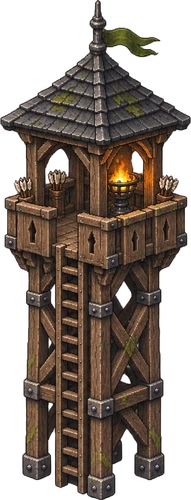
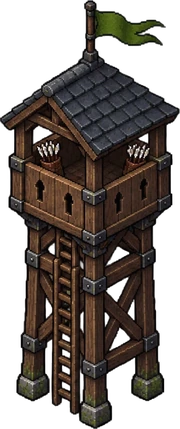
v0.9.3 : ordres prioritaires en combat, timing des boss, mur de pierre, donjon niv. 2, tours redessinées, nouveaux effets
Claude-Session: https://claude.ai/code/session_01Qu7CnrjJEbnLbDp6zknZA7

diff --git a/index.html b/index.html
@@ -315,7 +315,7 @@ const cv=$('cv'),ctx=cv.getContext('2d');
 const MK=1,WW=1672*MK,WH=941*MK,TW=64,TH=32,OX=905*MK,OY=482*MK;
 const DAY=120,DUSK=12,NIGHT=110,TIME=2; // TIME: game seconds per real second at ×1
 const IMG={};
-['bg','keep','farm','wallA','wallB','wallAd','wallBd','wallA2','wallB2','wallA2d','wallB2d','wallA3','wallB3','wallA3d','wallB3d','post','rubble','gate','gate2','gateD','gateX','totem','totemOn','ebouA','ebouB'].forEach(n=>{const i=new Image();i.src='img/'+n+'.webp';IMG[n]=i});
+['bg','keep','farm','wallA','wallB','wallAd','wallBd','wallA2','wallB2','wallA2d','wallB2d','wallA3','wallB3','wallA3d','wallB3d','post','rubble','gate','gate2','gateD','gateX','totem','totemOn','stoneA','stoneB','stoneP','stoneAd','stoneBd','stoneAx','stoneBx','keep1','keep2','ebouA','ebouB'].forEach(n=>{const i=new Image();i.src='img/'+n+'.webp';IMG[n]=i});
 const MP=['w1','w2','atk','dead'],MS={rodeur:{w1:[28.5,17]},charo:{w1:[19.5,27]},brute:{w1:[46.5,48]},colosse:{w1:[93,88]},cracheur:{w1:[28.0,27.0]},fouisseur:{w1:[29.0,19.5]},corbeaux:{w1:[27.5,24.0]},belier:{w1:[50.0,38.5]},necro:{w1:[28.0,27.5]},peste:{w1:[27.5,29.5]},ombre:{w1:[28.0,29.5]},matriarche:{w1:[90.0,78.5]},cuirasse:{w1:[37.0,39.0]}};
 for(const n in MS)for(const p of MP){const i=new Image();i.src='img/m/'+n+'_'+p+'.webp';IMG['m_'+n+'_'+p]=i;if(p!=='dead'){const r=new Image();r.src='img/m/'+n+'_'+p+'_rim.webp';IMG['m_'+n+'_'+p+'_r']=r}}
 const IMAP={slow:'slow'};const SZ={armory:150,stable:156,hall:132,keep:222,farm:168,mill:142,quarry:142,hospital:150,tower:46,brazier:26};
@@ -527,7 +527,7 @@ const tavernDisc=()=>{let v=0;for(const b of S.blds)if(b.t==='tavern'&&ready(b))
 function rcost(k){const c=ALLU[k].cost,f=1-tavernDisc(),o={};for(const r in c)o[r]=Math.round(c[r]*f);return o}
 const costOf=k=>B[k]?B[k].cost:rcost(k);
 function gain(r,a){S.res[r]+=a;return a}
-function levelCheck(){let ups=0;for(const u of S.units){if(u.worker)continue;while(u.lv<10&&u.xp>=xpNeed(u.lv)){u.lv++;ups++;S.st.maxLv=Math.max(S.st.maxLv,u.lv);if(!u.hidden){float(u.x,u.y-40,'Niveau '+u.lv,'#ffd27a',1,'lvlup');burst(u.x,u.y-14,'#ffd27a',10)}}}refreshMax();return ups}
+function levelCheck(){let ups=0;for(const u of S.units){if(u.worker)continue;while(u.lv<10&&u.xp>=xpNeed(u.lv)){u.lv++;ups++;S.st.maxLv=Math.max(S.st.maxLv,u.lv);if(!u.hidden){float(u.x,u.y-40,'Niveau '+u.lv,'#ffd27a',1,'lvlup');fxAdd('lvlup',u.x,u.y-18,{dur:.9,sz:56});burst(u.x,u.y-14,'#ffd27a',10)}}}refreshMax();return ups}
 // Hordes : tables de groupes aléatoires débloquées nuit après nuit. Chaque nuit dispose d'un budget de menace
 // qu'on remplit en tirant des tables ; les tables récentes sont plus probables, les anciennes s'effacent peu à peu.
 const MCOST={charo:1,rodeur:.7,corbeaux:.5,cracheur:1.4,fouisseur:1.5,peste:1.3,necro:1.8,ombre:2,cuirasse:3,brute:4,belier:5};
@@ -562,12 +562,14 @@ function genHorde(n,type){
   while(left>0&&groups.length<40){const T=groups.length?draw():pool.find(p=>p.T.t===1).T,mem=[];
     for(const [m,a,b] of T.g){const k=Math.max(1,Math.round(rnd(a,b)*grow));for(let x=0;x<k;x++)mem.push(m)}
     groups.push({n:T.n,mem});left-=mem.reduce((a,m)=>a+MCOST[m],0)}
-  const hpk=(1+.16*(n-1))*(dm>1?1.15:dm<1?.85:1),ents=openEntries(n),span=Math.min(75,34+n*3.5),q=[];
+  const hpk=(1+.16*(n-1))*(dm>1?1.15:dm<1?.85:1),ents=openEntries(n),span=Math.min(60,30+n*2.5),q=[];
+  // une créature doit arriver au donjon assez tôt pour être tuable avant l'aube (trajet ~650 px)
+  const lateAt=t=>Math.max(2,NIGHT-40-650/M[t].sp);
   groups.sort(()=>Math.random()-.5);
   groups.forEach((G,gi)=>{const e=ents[Math.floor(Math.random()*ents.length)],t0=gi*(span/groups.length)+Math.random()*2;
-    G.mem.forEach((t,k)=>q.push({t,ent:e,at:t0+k*.7+Math.random()*.4,hp:Math.round(M[t].hp*hpk),grp:G.n,elite:n>=3&&Math.random()<.12?Object.keys(ELITES)[Math.floor(Math.random()*3)]:null}))});
+    G.mem.forEach((t,k)=>q.push({t,ent:e,at:Math.min(lateAt(t),t0+k*.7+Math.random()*.4),hp:Math.round(M[t].hp*hpk),grp:G.n,elite:n>=3&&Math.random()<.12?Object.keys(ELITES)[Math.floor(Math.random()*3)]:null}))});
   const boss=n%8===0?'matriarche':(n%5===0||type==='calme')?'colosse':null;
-  if(boss)q.push({t:boss,ent:ents[Math.floor(Math.random()*ents.length)],at:span*.85,hp:Math.round(M[boss].hp*hpk),grp:M[boss].n,elite:null});
+  if(boss)q.push({t:boss,ent:ents[Math.floor(Math.random()*ents.length)],at:3,hp:Math.round(M[boss].hp*hpk),grp:M[boss].n,elite:null});
   q.groups=groups.map(G=>G.n);
   return q;
 }
@@ -724,7 +726,7 @@ function fxAdd(k,x,y,o){if(!okI(FXI[k]))return;o=o||{};S.vfx=S.vfx||[];S.vfx.pus
 function fxFrame(g,k,f,x,y,sz,rot,flip,add){const im=FXI[k];if(!okI(im))return false;g.save();if(add)g.globalCompositeOperation='lighter';g.translate(x,y);if(rot)g.rotate(rot);if(flip)g.scale(-1,1);g.drawImage(im,f*128,0,128,128,-sz/2,-sz/2,sz,sz);g.restore();return true}
 function spark(x,y,c,n){for(let k=0;k<n;k++){const a=Math.random()*6.28,s=60+Math.random()*90;S.fx.push({x,y,vx:Math.cos(a)*s,vy:Math.sin(a)*s*.6-20,c,t:0,life:.25+Math.random()*.2,sp:1})}}
 function float(x,y,s,c,big,icon){S.txt.push({x,y,s,c,t:0,big,icon})}
-const FXI={};for(const k of ['arrow','shot','fire','ice','holy','slash','death','flame','acid','bolt']){const im=new Image();im.src='img/fx/'+k+'.webp';FXI[k]=im}
+const FXI={};for(const k of ['arrow','shot','fire','ice','holy','slash','death','flame','acid','bolt','poison','rock','boom','heal','lvlup','douse']){const im=new Image();im.src='img/fx/'+k+'.webp';FXI[k]=im}
 const RIC={};for(const k of ['bois','pierre','vivres','fail','crit','crown','lvlup','loot','skull','horde']){const im=new Image();im.src='img/i/'+k+'.webp';RIC[k]=im}
 function applyGel(m,s){if(m.burn>0){m.burn=0;return}m.gel=Math.max(m.gel,s)}
 function applyBurn(m){if(m.gel>0){m.gel=0;return}m.burn=3}
@@ -810,6 +812,7 @@ function step(dt){
     S.spawnClock+=dt;
     while(S.spawnQ.length&&S.spawnQ[0].at<=S.spawnClock)spawn(S.spawnQ.shift());
     if(!S.spawnQ.length&&!S.mons.length)dawn();
+    else if(S.t>=NIGHT&&S.mons.some(m=>m.d.boss)&&S.t<NIGHT+40){if(!S.night.ext){S.night.ext=1;toast('La nuit s\'attarde tant que '+S.mons.find(m=>m.d.boss).d.n+' marche encore.')}}
     else if(S.t>=NIGHT){const n=S.mons.length+S.spawnQ.length;for(const m of S.mons){burst(m.x,m.y-m.h*.5,'#ffcf6a',12);burst(m.x,m.y-6,'#2a1a12',8)}S.mons=[];S.spawnQ=[];hoverEnt=null;dawn(n)}
   }else if(S.phase==='dawn'){if(S.t>3){S.phase='day';S.t=0;dayStart()}}
   for(let k=S.timers.length-1;k>=0;k--)if(S.clock>=S.timers[k].at){const f=S.timers[k].fn;S.timers.splice(k,1);f()}
@@ -871,12 +874,12 @@ function step(dt){
         else if(!day){tx=k.x;ty=k.y+52;u.hidden=Math.hypot(u.x-k.x,u.y-k.y-44)<10}
       }else if(d.douse){
         let best=null,bd=1e9;for(const b of S.blds)if(b.fire>0){const dd=Math.hypot(b.x-u.x,b.y-u.y);if(dd<bd){bd=dd;best=b}}
-        if(best){tx=best.x+(u.off||0);ty=best.y+best.d.s*TH/2+4;if(Math.hypot(tx-u.x,ty-u.y)<12){act=true;u.dT=(u.dT||0)+dt*wm;if(Math.random()<dt*3)fxAdd('ice',best.x,best.y-20,{f0:4,f1:5,dur:.4,sz:34});if(u.dT>=2.4){u.dT=0;best.fire=0;float(best.x,best.y-50,'Éteint','#9fd8ff');burst(best.x,best.y-20,'#9fd8ff',14)}}}
+        if(best){tx=best.x+(u.off||0);ty=best.y+best.d.s*TH/2+4;if(Math.hypot(tx-u.x,ty-u.y)<12){act=true;u.dT=(u.dT||0)+dt*wm;if(Math.random()<dt*1.5)fxAdd('douse',best.x+(Math.random()-.5)*20,best.y-24,{f0:0,f1:3,dur:.5,sz:40});if(u.dT>=2.4){u.dT=0;best.fire=0;fxAdd('douse',best.x,best.y-30,{f0:2,f1:5,dur:.6,sz:64});float(best.x,best.y-50,'Éteint','#9fd8ff');burst(best.x,best.y-20,'#9fd8ff',14)}}}
         else{u.dT=0;const w=S.blds.find(b=>b.t==='well'&&ready(b));if(!day){tx=k.x;ty=k.y+52;u.hidden=Math.hypot(u.x-k.x,u.y-k.y-52)<10&&!S.blds.some(b=>b.fire>0)}else if(w){tx=w.x+14;ty=w.y+10}}
         for(const o of S.units)if(o!==u&&o.burn>0&&Math.hypot(o.x-u.x,o.y-u.y)<40)o.burn=0;
       }else if(d.medic){
         const pt=nearest(S.units.filter(o=>o!==u&&!o.hidden&&o.hp<o.max),u.x,u.y,600);
-        if(pt){const dd2=Math.hypot(pt.x-u.x,pt.y-u.y);if(dd2>18){tx=pt.x;ty=pt.y}else{tx=u.x;ty=u.y;act=true;{const h0=pt.hp;pt.hp=Math.min(pt.max,pt.hp+d.medic*wm*medMul()*dt);S.st.heals+=(pt.hp-h0)/TIME}if(Math.random()<dt*1.2)float(pt.x,pt.y-30,'+'+d.medic*TIME,'#9fe08a')}}
+        if(pt){const dd2=Math.hypot(pt.x-u.x,pt.y-u.y);if(dd2>18){tx=pt.x;ty=pt.y}else{tx=u.x;ty=u.y;act=true;{const h0=pt.hp;pt.hp=Math.min(pt.max,pt.hp+d.medic*wm*medMul()*dt);S.st.heals+=(pt.hp-h0)/TIME}if(Math.random()<dt*1.2){float(pt.x,pt.y-30,'+'+d.medic*TIME,'#9fe08a');fxAdd('heal',pt.x,pt.y-18,{dur:.7,sz:40})}}}
         else if(!day){tx=k.x;ty=k.y+52;u.hidden=Math.hypot(u.x-k.x,u.y-k.y-44)<10}
       }else if(d.heal){
         let best=null,bd=1e9;for(const b of S.blds)if((b.hp<b.max||b.fire>0)&&!b.d.trap&&!b.build){const dd=Math.hypot(b.x-u.x,b.y-u.y)-(b.fire>0?500:0)+(Math.hypot(b.x-k.x,b.y-k.y)>460?9999:0);if(dd<bd){bd=dd;best=b}}
@@ -888,7 +891,7 @@ function step(dt){
       if(u.guardB&&!S.blds.includes(u.guardB))u.guardB=null;
       if(u.patrol){const P=u.patrol;u.patT=(u.patT||0)-dt;if(!u.patP||u.patT<=0){u.patT=8+Math.random()*10;for(let g2=0;g2<8;g2++){const q={x:P.x0+Math.random()*(P.x1-P.x0),y:P.y0+Math.random()*(P.y1-P.y0)},c=cellOf(q.x,q.y);if(!blkA(c.i,c.j)){u.patP=q;break}}if(!u.patP)u.patP={x:(P.x0+P.x1)/2,y:(P.y0+P.y1)/2}}}
       const anc=u.guardB?{x:u.guardB.x,y:u.guardB.y+u.guardB.d.s*TH/2+10}:u.patrol?u.patP:u.post;if(u.guardB){tx=anc.x+(u.goff||0);ty=anc.y}else if(u.patrol){tx=anc.x;ty=anc.y}
-      if(u.d.healAura){for(const o of S.units)if(o!==u&&!o.hidden&&o.hp<o.max&&Math.hypot(o.x-u.x,o.y-u.y)<110){const h0=o.hp;o.hp=Math.min(o.max,o.hp+u.d.healAura*medMul()*dt);S.st.heals+=(o.hp-h0)/TIME;act=true}}
+      if(u.d.healAura){for(const o of S.units)if(o!==u&&!o.hidden&&o.hp<o.max&&Math.hypot(o.x-u.x,o.y-u.y)<110){if(Math.random()<dt*.5)fxAdd('heal',o.x,o.y-18,{dur:.7,sz:36});const h0=o.hp;o.hp=Math.min(o.max,o.hp+u.d.healAura*medMul()*dt);S.st.heals+=(o.hp-h0)/TIME;act=true}}
       if(u.d.priest)for(const m of S.mons)if(Math.hypot(m.x-u.x,m.y-u.y)<120){m.hp-=1*dt;m.ls=u;m.last=u}
       if(u.d.sapper&&!day){u.sapT=(u.sapT===undefined?4:u.sapT)-dt;const mine=S.blds.filter(b=>b.t==='mine'&&b.by===u).length;
         if(u.sapT<=0&&mine<3){u.sapT=18;const tg=nearest(S.mons,u.post.x,u.post.y,1e9);const dx=tg?tg.x-u.post.x:0,dy=tg?tg.y-u.post.y:0,dd=Math.hypot(dx,dy)||1,px=u.post.x+dx/dd*70,py=u.post.y+dy/dd*70;
@@ -896,11 +899,13 @@ function step(dt){
       // morale & flee
       const allies=S.units.some(o=>o!==u&&!o.worker&&!o.hidden&&Math.hypot(o.x-u.x,o.y-u.y)<90);
       if(!u.hero&&!allies&&u.hp<u.max*.35&&S.mons.length)u.flee=true;else if(u.flee&&(u.hp>u.max*.6||allies))u.flee=false;
-      if(u.flee){tx=k.x;ty=k.y+56;if(Math.random()<dt*.2)float(u.x,u.y-34,'!','#ffcf6a',1)}
+      if(u.mv){u.mvT=(u.mvT||0)+dt;if(!anc||Math.hypot(tx-u.x,ty-u.y)<16||u.mvT>14)u.mv=0;else u.flee=false}
+      if(u.mv){/* ordre du joueur : on rejoint la destination sans se laisser accrocher */}
+      else if(u.flee){tx=k.x;ty=k.y+56;if(Math.random()<dt*.2)float(u.x,u.y-34,'!','#ffcf6a',1)}
       else{
-      const stc=u.stance||'pursue',lim=stc==='zone'||u.guardB?230:1e9;
+      const stc=u.stance||'pursue',lim=stc==='zone'||u.guardB?230:u.patrol?1e9:420;
       let m=null;
-      if(sU.dice&&S.mons.length){const pool=S.mons.filter(m=>vis(m)&&(m.wp>=m.path.length||inClearing(m.x,m.y,1.25))&&Math.hypot(m.x-anc.x,m.y-anc.y)<lim&&(!u.patrol||inPat(u.patrol,m,70)||Math.hypot(m.x-u.x,m.y-u.y)<190||Math.hypot(m.x-k.x,m.y-k.y)<170));m=nearest(pool,u.x,u.y,1e9);
+      if(sU.dice&&S.mons.length){const pool=S.mons.filter(m=>vis(m)&&(m.wp>=m.path.length||inClearing(m.x,m.y,1.25))&&Math.hypot(m.x-anc.x,m.y-anc.y)<lim&&(!u.patrol||inPat(u.patrol,m,90)||Math.hypot(m.x-k.x,m.y-k.y)<170));m=nearest(pool,u.x,u.y,1e9);
         if(m&&stc==='hold'&&Math.hypot(m.x-u.x,m.y-u.y)>sU.range+(m.d.r||8)+4)m=null}
       if(m){
         const dist=Math.hypot(m.x-u.x,m.y-u.y),reach=sU.range+(m.d.r||8);
@@ -986,7 +991,7 @@ function step(dt){
   for(const m of S.mons)if(m.hp<=0){S.kills++;S.st.kills++;S.ns.kills++;S.kt[m.t]=(S.kt[m.t]||0)+1;if(m.t==='brute'){S.st.brutes++;S.ns.brutes++}if(m.t==='colosse')S.st.colosses++;if(m.t==='matriarche')S.st.matri=(S.st.matri||0)+1;if(m.ls==='trap'){S.st.trapKills++;S.ns.traps++}
     if(m.last&&S.units.includes(m.last)&&!m.last.worker){m.last.xp+=(XPV[m.t]||5)*(S.night.type==='sang'&&night?2:1)*(m.elite?2:1);m.last.nk=(m.last.nk||0)+1;m.last.kills=(m.last.kills||0)+1}
     if(m.d.boss){S.res.cendre=(S.res.cendre||0)+3;float(m.x,m.y-m.h-10,'+3 Cendres','#ffd27a',1)}else if(m.elite&&Math.random()<.35){S.res.cendre=(S.res.cendre||0)+1;float(m.x,m.y-m.h-10,'+1 Cendre','#ffd27a',1)}
-    if(m.d.plague){S.clouds.push({x:m.x,y:m.y,r:70,t:8});burst(m.x,m.y-8,'#b0e040',20)}
+    if(m.d.plague){S.clouds.push({x:m.x,y:m.y,r:70,t:8});burst(m.x,m.y-8,'#b0e040',20);fxAdd('poison',m.x,m.y-14,{dur:.9,sz:96})}
     fxAdd('death',m.x,m.y-(m.h||20)*.4,{dur:.7,sz:m.d.boss?120:Math.max(44,m.w*1.2)});const sp=m.d.spr||m.t;S.corpses.push({t:sp,x:m.x,y:m.y,face:m.face,life:0,sc:(m.d.sc||1)*(m.grow||1)});burst(m.x,m.y-6,'#3a2a20',m.d.boss?30:10);if(m.d.boss){toast(m.d.n+' s\'effondre !');shake=.6}if(hoverEnt===m)hoverEnt=null;if(sel===m)closeInfo()}
   S.mons=S.mons.filter(m=>m.hp>0);
   for(const u of S.units)if(u.hp<=0){S.ns.lostU++;if(u.hero&&!u.temp){S.heroes[u.t]='fallen';toast(u.d.n+' est tombé. Il pourra être invoqué de nouveau demain.')}else if(!u.worker&&!u.hero)S.fallen.push({t:u.t,lv:u.lv,xp:u.xp});burst(u.x,u.y-8,'#7a1f18',10);float(u.x,u.y-34,u.d.n+' tombe','#ff8b7b');if(sel===u)closeInfo()}
@@ -1007,7 +1012,7 @@ function trap(b,m,em,dt){
   if(b.t==='pit'){m.pitT-=dt;if(m.pitT<=0){m.pitT=1;const v=Math.round(l.dmg*em);m.hp-=v;m.ls='trap';float(m.x,m.y-m.h,String(v),'#d9c9a8')}return l.slow}
   if(b.t==='tar'){m.tar=.4;return l.slow}
   if(b.t==='jaw'&&b.cool<=0){b.cool=l.rearm;m.hold=m.d.boss?l.hold*.4:l.hold;hurt(m,roll(l.dice,0,em),'#e8e8e8','trap');return 1}
-  if(b.t==='mine'){burst(b.x,b.y,'#ffb04a',26);flash.push({x:b.x,y:b.y,t:0,big:1});
+  if(b.t==='mine'){fxAdd('boom',b.x,b.y-18,{f0:1,f1:5,dur:.7,sz:Math.max(90,(l.r||60)*1.6)});burst(b.x,b.y,'#ffb04a',26);flash.push({x:b.x,y:b.y,t:0,big:1});
     for(const o of S.mons)if(Math.hypot(o.x-b.x,(o.y-b.y)*1.6)<l.r)hurt(o,roll(l.dice,0,em),'#ffcf7a','trap');
     removeBld(b,false);return 1}
   if(b.t==='glyph'&&m.glyT<=0){m.glyT=1;applyGel(m,l.gel);return 1}
@@ -1040,7 +1045,7 @@ function impact(p,x,y){
     const tel=src&&(src.t==='mystique'||src.t==='ardente')&&S.units.some(o=>(o.t==='tellu'||o.t==='kristal')&&Math.hypot(o.x-src.x,o.y-src.y)<100);
     for(const m of S.mons)if(Math.hypot(m.x-x,(m.y-y)*1.6)<p.aoe){const dm=hurt(m,roll(p.dice,monDef(m),p.mul),'#ffb07a',p.src);if(tel){m.vap=6}else applyBurn(m);if(src&&src.d.drain)src.hp=Math.min(src.max,src.hp+dm/3)}
     if(tel){burst(x,y,'#e8f4ff',18);float(x,y-30,'Vapeur !','#e8f4ff',1)}
-  }else if(p.kind==='rock'){burst(x,y,'#8a7a6a',20);flash.push({x,y,t:0,big:1});shake=Math.max(shake,.15);for(const m of S.mons)if(Math.hypot(m.x-x,(m.y-y)*1.6)<(p.aoe||60))hurt(m,roll(p.dice,0,p.mul),'#e8d8c0','tower')}
+  }else if(p.kind==='rock'){fxAdd('rock',x,y-14,{f0:1,f1:5,dur:.6,sz:Math.max(80,(p.aoe||60)*1.5)});burst(x,y,'#8a7a6a',20);flash.push({x,y,t:0,big:1});shake=Math.max(shake,.15);for(const m of S.mons)if(Math.hypot(m.x-x,(m.y-y)*1.6)<(p.aoe||60))hurt(m,roll(p.dice,0,p.mul),'#e8d8c0','tower')}
   else{
     const m=p.tg;if(m.hp>0)hurt(m,roll(p.dice,monDef(m),p.mul),null,p.src||'tower');
     if(p.pierce){const dx=x-p.sx,dy=y-p.sy,d=Math.hypot(dx,dy)||1,ex=x+dx/d*90,ey=y+dy/d*90;for(const o of S.mons)if(o!==m&&vis(o)&&segD(o.x,o.y-o.h*.4,x,y,ex,ey)<16)hurt(o,roll(p.dice,monDef(o),p.mul),null,p.src||'tower');S.beams.push({x1:x,y1:y,x2:ex,y2:ey,t:.3,c:'#d9c8a0'})}
@@ -1169,7 +1174,7 @@ function boxDraw(){const b=$('selbox'),l=Math.min(sbox.x0,sbox.x1),t=Math.min(sb
 function boxEnd(add){$('selbox').style.display='none';const l=Math.min(sbox.x0,sbox.x1),r=Math.max(sbox.x0,sbox.x1),t=Math.min(sbox.y0,sbox.y1),bt=Math.max(sbox.y0,sbox.y1);sbox=null;
   const inB=S.units.filter(u=>{if(u.hidden)return false;const p=scrOf(u);return p.x>=l&&p.x<=r&&p.y>=t-12&&p.y<=bt+12});
   const gsel=selU.filter(u=>!u.worker);
-  if(!inB.length&&gsel.length&&r-l>24&&bt-t>16){const a=toW(l,t),b=toW(r,bt),P={x0:a.x,y0:a.y,x1:b.x,y1:b.y};for(const u of gsel){u.patrol=P;u.patP=null;u.patT=0;u.guardB=null;u.nav=null}
+  if(!inB.length&&gsel.length&&r-l>24&&bt-t>16){const a=toW(l,t),b=toW(r,bt),P={x0:a.x,y0:a.y,x1:b.x,y1:b.y};for(const u of gsel){u.patrol=P;u.patP=null;u.patT=0;u.guardB=null;u.nav=null;u.mv=1;u.mvT=0}
     marks.push({x:(a.x+b.x)/2,y:(a.y+b.y)/2,t:0});toast((gsel.length>1?gsel.length+' gardes patrouillent':gsel[0].d.n+' patrouille')+' dans cette zone. Un ordre de déplacement annule la patrouille.');selU=[];closeInfo();hintTxt();setCursor();return}
   const g=inB.filter(u=>!u.worker),pickd=g.length?g:inB;
   selU=add?[...new Set([...selU,...pickd])]:pickd;
@@ -1240,7 +1245,7 @@ function paintAt(sx,sy){const w=toW(sx,sy),c=cellOf(w.x,w.y),k=key(c.i,c.j);if(k
   lastPaint=k;lastPC=c;for(const q of cells){if(!tryPlace('wall',q,true)&&!afford(B.wall.cost)){toast('Plus assez de bois.');break}}}
 function order(w,target){
   const tg=target||pickAt(w);
-  if(tg&&tg.d&&tg.d.s&&!tg.d.trap&&selU.some(u=>!u.worker)){const gs=selU.filter(u=>!u.worker);gs.forEach((u,k)=>{u.patrol=null;u.guardB=tg;u.goff=(k-(gs.length-1)/2)*18});marks.push({x:tg.x,y:tg.y,t:0});toast(gs.length>1?gs.length+' gardes protègent '+tg.d.n+'.':gs[0].d.n+' protège '+tg.d.n+'.');
+  if(tg&&tg.d&&tg.d.s&&!tg.d.trap&&selU.some(u=>!u.worker)){const gs=selU.filter(u=>!u.worker);gs.forEach((u,k)=>{u.patrol=null;u.guardB=tg;u.goff=(k-(gs.length-1)/2)*18;u.mv=1;u.mvT=0});marks.push({x:tg.x,y:tg.y,t:0});toast(gs.length>1?gs.length+' gardes protègent '+tg.d.n+'.':gs[0].d.n+' protège '+tg.d.n+'.');
     for(const u of selU.filter(u=>u.worker))assignW(u,tg);selU=[];closeInfo();setCursor();return}
   if(!inClearing(w.x,w.y,1.12)){toast('Hors de la clairière.');return}
   let n=0,assigned=0;
@@ -1250,7 +1255,7 @@ function order(w,target){
     if(F==='line'){const o=(k-(N-1)/2)*20;ox=px*o;oy=py*o/2}
     else if(F==='circle'){if(N>1){const a=k/N*6.2832,r=14+N*4;ox=Math.cos(a)*r;oy=Math.sin(a)*r*.5}}
     else{const c=Math.ceil(Math.sqrt(N)),gx=k%c-(c-1)/2,gy=Math.floor(k/c)-(Math.ceil(N/c)-1)/2;ox=gx*42;oy=gy*24}
-    u.post={x:w.x+ox,y:w.y+oy};u.guardB=null;u.patrol=null;n++});
+    u.post={x:w.x+ox,y:w.y+oy};u.guardB=null;u.patrol=null;u.mv=1;u.mvT=0;n++});
   for(const u of selU.filter(u=>u.worker))if(assignW(u,tg))assigned++;
   marks.push({x:w.x,y:w.y,t:0});selU=[];closeInfo();setCursor();
   if(n||assigned)toast(n&&assigned?`${n} garde(s) en poste, ${assigned} villageois affecté(s).`:n?(n>1?n+' gardes en '+{line:'ligne',circle:'cercle',spread:'ordre dispersé'}[F]+'.':guards[0].d.n+' prend son poste.'):assigned+' villageois affecté(s).');
@@ -1418,7 +1423,7 @@ function openInfo(e){
   on('iC',()=>{refund(b.d.cost,1);removeBld(b,false);refresh()});
   on('iH',()=>{e.goH=true;toast(e.d.n+' part se faire soigner.');openInfo(e)});
   on('iF',()=>{S.units.splice(S.units.indexOf(e),1);selU=selU.filter(u=>u!==e);closeInfo();refresh();hintTxt()});
-  on('iHome',()=>{selU.forEach((u,k)=>{const a2=(k*2.399),r=110+(k%3)*24;u.post={x:S.keep.x+Math.cos(a2)*r,y:S.keep.y+Math.sin(a2)*r*.5+6}});toast('Retour aux abords du donjon.')});
+  on('iHome',()=>{selU.forEach((u,k)=>{const a2=(k*2.399),r=110+(k%3)*24;u.post={x:S.keep.x+Math.cos(a2)*r,y:S.keep.y+Math.sin(a2)*r*.5+6};u.patrol=null;u.guardB=null;u.mv=1;u.mvT=0});toast('Retour aux abords du donjon.')});
   hintTxt();
 }
 const LVK=['hp','def','pop','amt','every','dice','range','cd','light','defm','dmg','slow','hold','rearm','burnx','r','gel','beds','heal','tier','spd','heroes','night','disc','merc','rev','rate'];
@@ -1577,9 +1582,10 @@ const ACH=[
 function metaTick(nightKills){const m=metaG();m.ach=m.ach||{};m.kills=(m.kills||0)+(nightKills||0);m.best=Math.max(m.best||0,S.day);
   for(const u of S.units)if(!u.worker&&(u.kills||0)>((m.star&&m.star.k)||0))m.star={t:u.t,n:u.d.n,k:u.kills,lv:u.lv,day:S.day,hero:!!u.hero};
   for(const a of ACH)if(!m.ach[a.id]&&a.f(S,m)){m.ach[a.id]=Date.now();toast('Haut fait débloqué : '+a.n+' !')}metaS(m)}
-const VERSION='0.9.2';
+const VERSION='0.9.3';
 document.querySelectorAll('[data-ver]').forEach(e=>e.textContent='v'+VERSION);document.title='Les Nuits de Lamuline · v'+VERSION;
 const NOTES=[
+  ['v0.9.3','Ordres, boss et nouveaux sprites',['Un ordre de déplacement ou de patrouille est prioritaire : la garde quitte le combat pour l\'exécuter, puis reprend','La poursuite reste dans un rayon autour du poste ; les patrouilleurs restent dans leur zone','Les boss entrent dès le début de la nuit, les créatures lentes arrivent à temps pour être tuées ; la nuit s\'attarde (40 s max) tant qu\'un boss marche','Mur de pierre : segments, piliers, versions fissurée et en ruine','Donjon : nouveau sprite au niveau 1, château fortifié dès le niveau 2','Tours spécialisées redessinées','Effets : nuage de peste, impact de catapulte, explosion de baril, soins, montée de niveau, seau d\'eau sur les flammes','Plus de cercle violet dessiné autour de la Matriarche']],
   ['v0.9.2','Nouveaux sprites de défense',['La flèche d\'amélioration se pose au sommet réel de chaque bâtiment','Palissades niveau 2 (pieux et cordes) et niveau 3 (bandes de fer), intactes ou abîmées','Porte de palissade en trois états : intacte, abîmée, presque détruite','Tours spécialisées : archers, baliste et mage ont leur propre sprite','Roulotte du marchand ambulant','Totems d\'entrée : le totem rougeoie sur le front le plus chargé']],
   ['v0.9.1','Corrections visuelles',['Plus d\'amélioration la nuit : flèche, bouton et travaux sont réservés au jour','Le bélier et la charogne cuirassée n\'ont plus de bout de bois ou de plaques dessinés par-dessus leur sprite','Ombres au sol douces sous les unités et les monstres','Un bâtiment se sélectionne en survolant tout son dessin, pas seulement ses cases au sol']],
   ['v0.9','Hordes en tables, nuits sans chantier, confort d\'interface',['Numéro de version affiché sur l\'accueil et dans le menu','Les hordes sont tirées dans des tables de groupes aléatoires, plus nombreuses et plus dures nuit après nuit','On ne peut plus bâtir la nuit (ni pendant une éclipse)','Une flèche dorée flotte au-dessus des bâtiments qu\'on peut améliorer','Niveau affiché en bas à droite des bâtiments niveau 2 et plus','Réglage de la taille de l\'interface dans les Paramètres','Un clic sur la carte relance une partie en pause','Les messages s\'empilent au-dessus de la barre du bas']],
@@ -1719,15 +1725,16 @@ function fire(g,x,y,s,t){
 function drawWall(g,b){
   const isW=(a,c)=>{const x=S.grid.get(key(a,c));return x&&(x.t==='wall'||x.t==='gate'||x.t==='stone')};
   const i=b.i,j=b.j,im=isW(i-1,j),ip=isW(i+1,j),jm=isW(i,j-1),jp=isW(i,j+1),n=im+ip+jm+jp,dmg=b.hp<b.max*.5&&!b.build;
-  const sf=b.lv>=3&&okI(IMG.wallA3)?'3':b.lv>=2&&okI(IMG.wallA2)?'2':'';b._nsp=!!sf;
-  const A=IMG['wallA'+sf+(dmg?'d':'')],Bi=IMG['wallB'+sf+(dmg?'d':'')],w=TW/2*1.3;
+  const st=b.t==='stone',fr=b.build?1:b.hp/b.max;
+  const sf=b.lv>=3&&okI(IMG.wallA3)?'3':b.lv>=2&&okI(IMG.wallA2)?'2':'';b._nsp=!!sf||st;
+  const A=st?(fr<.25?IMG.stoneAx:fr<.6?IMG.stoneAd:IMG.stoneA):IMG['wallA'+sf+(dmg?'d':'')],Bi=st?(fr<.25?IMG.stoneBx:fr<.6?IMG.stoneBd:IMG.stoneB):IMG['wallB'+sf+(dmg?'d':'')],w=TW/2*1.3,POST=st?IMG.stoneP:IMG.post;
   if(!A.complete||!Bi.complete)return;
   const half=(im2,side)=>{const h=w*im2.height/im2.width,x0=b.x-w/2,y0=b.y-(h-w/4)+2;g.save();g.beginPath();
     if(side<0)g.rect(x0-2,y0-4,w/2+2.4,h+8);else g.rect(b.x-.4,y0-4,w/2+2.4,h+8);g.clip();g.drawImage(im2,x0,y0,w,h);g.restore()};
   if(n===0){const h=w*A.height/A.width;g.drawImage(A,b.x-w/2,b.y-(h-w/4)+2,w,h);tint(g,b);return}
   if(jm)half(A,1);if(im)half(Bi,-1);
   const straight=(n===2&&((im&&ip)||(jm&&jp)));
-  if(!straight&&IMG.post.complete){const pw=6.5,ph=pw*IMG.post.height/IMG.post.width*.62;g.drawImage(IMG.post,b.x-pw/2,b.y-ph+3,pw,ph)}
+  if(!straight&&POST.complete){const pw=st?20:6.5,ph=pw*POST.height/POST.width*(st?1:.62);g.drawImage(POST,b.x-pw/2,b.y-ph+(st?6:3),pw,ph)}
   if(jp)half(A,-1);if(ip)half(Bi,1);
   tint(g,b);
 }
@@ -1735,7 +1742,7 @@ function tint(g,b){if(b._nsp)return;if(b.lv>2)diamond(g,b.x,b.y+1,.32,'#7c8086')
   g.strokeStyle='#1a120c';g.lineWidth=3.2;g.beginPath();g.moveTo(x,y);g.lineTo(x+dx,y+7);g.stroke();g.strokeStyle=b.lv>2?'#b8b8b0':'#c8a070';g.lineWidth=1.6;g.beginPath();g.moveTo(x,y);g.lineTo(x+dx,y+7);g.stroke()}g.restore()}}
 function bodyBld(g,b,t){
   const x=b.x,y=b.y,s=b.d.s;
-  if(b.t==='keep'){const im=IMG.keep,w=SZ.keep,h=w*im.height/im.width;if(im.complete)g.drawImage(im,x-w/2+4,y+s*TH/2-h+6,w,h)}
+  if(b.t==='keep'){const im=okI(IMG.keep1)?(b.lv>=2&&okI(IMG.keep2)?IMG.keep2:IMG.keep1):IMG.keep,w=SZ.keep,h=w*im.height/im.width;if(im.complete)g.drawImage(im,x-w/2+4,y+s*TH/2-h+6,w,h)}
   else if(b.t==='farm'){const im=IMG.farm,w=SZ.farm,h=w*im.height/im.width;if(im.complete)g.drawImage(im,x-w/2,y+TH-h+4,w,h)}
   else if(b.t==='wall')drawWall(g,b);
   else if(b.t==='gate'){const fr=b.build?1:b.hp/b.max,im=okI(IMG.gate2)?(fr<.25?IMG.gateX:fr<.6?IMG.gateD:IMG.gate2):IMG.gate,isW=(a,c)=>{const x=S.grid.get(key(a,c));return x&&(x.t==='wall'||x.t==='gate')},alongI=b.al!==undefined?b.al:isW(b.i-1,b.j)||isW(b.i+1,b.j),w=TW/2*1.3*(b.cells?1.75:1);
@@ -1748,6 +1755,7 @@ function bodyBld(g,b,t){
   else if(b.t==='tavern'){if(!spr(g,'tavern',x+2,y+TH+4,122))drawTavern(g,x,y,t)}
   else if(b.t==='chapel'){if(!spr(g,'chapel',x+2,y+TH+6,108))drawChapel(g,x,y,t)}
   else if(b.t==='siege'){if(!spr(g,'siege',x+2,y+TH+4,126))drawSiege(g,x,y,t,b.d?b:null)}
+  else if(b.t==='stone'&&okI(IMG.stoneA)){drawWall(g,b)}
   else if(b.t==='stone'){const im=IMG.b_stone;if(okI(im)){const isW=(a,c)=>{const q=S.grid.get(key(a,c));return q&&(q.t==='wall'||q.t==='gate'||q.t==='stone')},alI=isW(b.i-1,b.j)||isW(b.i+1,b.j),w=40,h=w*im.naturalHeight/im.naturalWidth;g.save();g.translate(x,y);if(alI)g.scale(-1,1);g.drawImage(im,-w/2,TH/2+2-h,w,h);g.restore()}else drawStone(g,b)}
   else if(b.t==='beacon'){if(!spr(g,'beacon',x,y+TH/2,40))drawBeacon(g,x,y,t,b);else if(!b.build){g.globalAlpha=.5+Math.sin(t*9+x)*.2;fire(g,x,y-88,.45,t);g.globalAlpha=1}}
   else if(b.t==='hunt'){if(!spr(g,'hunt',x+2,y+TH+4,118))drawHall(g,x,y)}
@@ -1882,7 +1890,7 @@ function drawMon(g,m,t){
   if(m.t==='belier'&&!okI(IMG['m_belier_w1'])){g.save();g.translate(x,y-m.h*.42);g.rotate(m.face*.12);g.fillStyle='#6a4428';g.fillRect(m.face>0?2:-30,-4,28,8);g.fillStyle='#3a2a1a';g.fillRect(m.face>0?26:-30,-5,4,10);g.restore()}
   if(m.t==='peste'){for(let k=0;k<3;k++){const ph=(t*.8+k/3)%1;g.fillStyle=`rgba(176,224,64,${.6*(1-ph)})`;g.beginPath();g.arc(x+(k-1)*5,y-m.h-ph*12,2+ph*2,0,7);g.fill()}}
   if(m.t==='cracheur'){g.fillStyle='#8ad04a';g.beginPath();g.arc(x+m.face*m.w*.32,y-m.h*.55+Math.abs(Math.sin(t*4))*3,1.8,0,7);g.fill()}
-  if(m.t==='matriarche'){g.strokeStyle='rgba(200,80,200,.5)';g.lineWidth=2;g.beginPath();g.ellipse(x,y-m.h*.5,m.w*.5,m.h*.55,0,0,7);g.stroke()}
+  if(m.t==='matriarche'&&!okI(IMG['m_matriarche_w1'])){g.strokeStyle='rgba(200,80,200,.5)';g.lineWidth=2;g.beginPath();g.ellipse(x,y-m.h*.5,m.w*.5,m.h*.55,0,0,7);g.stroke()}
   if(m.eating>0){g.fillStyle='#7a1f18';for(let k=0;k<2;k++)g.fillRect(x+(Math.random()-.5)*14,y-4-Math.random()*6,2,2)}
   if(m.burn>0)fire(g,x,y-m.h*.6,.5+m.h/80,t);
   if(m.vap>0){g.fillStyle='rgba(232,244,255,.35)';g.beginPath();g.arc(x,y-m.h*.6,m.w*.35,0,7);g.fill()}

diff --git a/CLAUDE.md b/CLAUDE.md
@@ -15,8 +15,8 @@ Développé jusqu'ici dans Claude (artefact), version V9.5. Valentin pilote, gé
 ## Arborescence
 - `index.html` : le jeu.
 - `img/bg.webp` carte 1672×941 (clairière, 4 entrées en coin) ; `img/ebouA|ebouB.webp` éboulis des entrées 3 et 4.
-- `img/wallA|B{,2,3}{,d}.webp` palissades par niveau (d = abîmée) · `img/gate2|gateD|gateX.webp` porte intacte/abîmée/détruite · `img/totem|totemOn.webp` totems d'entrée
-- `img/b/` bâtiments (dont `tower_archers|baliste|mage`, `merchant`) · `img/u/<id>_{idle,w1,w2,atk}.webp` unités/héros · `img/m/<id>_{w1,w2,atk,dead}.webp` + `_rim` monstres · `img/i/` icônes 128² · `img/fx/<nom>.webp` effets (bande de 6 frames 128²).
+- `img/wallA|B{,2,3}{,d}.webp` palissades par niveau (d = abîmée) · `img/gate2|gateD|gateX.webp` porte intacte/abîmée/détruite · `img/totem|totemOn.webp` totems d'entrée · `img/stone{A,B,P}` mur de pierre (+`d` fissuré, `x` ruine) · `img/keep1|keep2.webp` donjon niv. 1 / niv. 2+
+- `img/b/` bâtiments (dont `tower_archers|baliste|mage`, `merchant`) · `img/u/<id>_{idle,w1,w2,atk}.webp` unités/héros · `img/m/<id>_{w1,w2,atk,dead}.webp` + `_rim` monstres · `img/i/` icônes 128² · `img/fx/<nom>.webp` effets (bande de 6 frames 128², dont poison, rock, boom, heal, lvlup, douse).
 - `tools/sprites.py` : découpe des planches (voir plus bas).
 
 ## Architecture du code (index.html)
@@ -30,6 +30,7 @@ Développé jusqu'ici dans Claude (artefact), version V9.5. Valentin pilote, gé
   - monstres : champs de flux Dijkstra `navEnsure()`/`ffStep()` (coût des murs selon leurs PV, `navVer` à incrémenter quand la grille change) ; ils s'arrêtent et frappent les barricades ; Fouisseur creuse 4 s.
   - unités : A* + lissage `astar()`/`navTo()`, contournent palissades, passent par les portes ; `rangedSpot()` garde tireurs/mages derrière l'enceinte si elle est fermée.
   - `wallBetween(a,b)` empêche de frapper à travers une barricade ; les monstres ciblent les unités avant les défenses (sauf Brutes et Béliers).
+- **Ordres** : `u.mv` = ordre du joueur en cours (déplacement/patrouille/garde), l'unité ignore les ennemis jusqu'à destination (14 s max). Poursuite tenue à 420 px du poste.
 - **Boucle** : `step(dt)` logique · `draw(t)` rendu canvas (tri par profondeur, `outlined()` surbrillance, `ghostLine()` contour des unités cachées derrière un bâtiment, `occBy()`) · `refresh()` HUD · `hud()` plaque jour/nuit.
 - **VFX** : `fxAdd(nom,x,y,{f0,f1,dur,sz,rot,flip,add})`, `fxFrame()`, `fire()` (flammes animées).
 - **UI** : barre du bas `renderCards()` (onglets b, d, p, u, w, h = Héros), cadre d'unité compact `#info.uf` (3 lignes, à droite des ressources), fenêtres bâtiment `bldModal`, `dialog()/closeDlg()` (clic à côté ferme), rapport de l'aube `showReport()` (auto-fermeture 10 s), accueil `hmRender()`, menu (Progression, Arbre, Hauts faits, Bestiaire, Encyclopédie, Règles, Paramètres, Sauvegarder, Recharger, Recommencer, Accueil).
